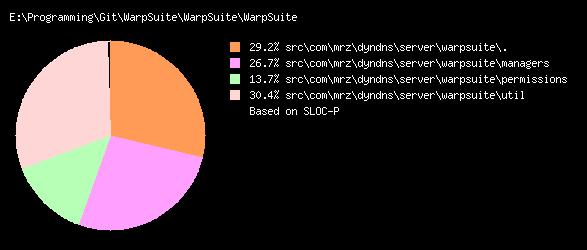
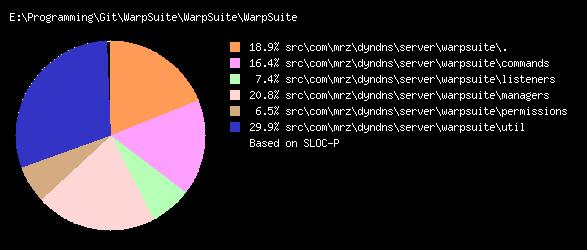
metrics

diff --git a/WarpSuite/LocMetrics.html b/WarpSuite/LocMetrics.html
@@ -1,1 +1,1 @@
-<html xmlns="http:////www.w3.org//1999//xhtml" xml:lang="en" lang="en"><head><title></title><LINK REL=StyleSheet HREF="LocMetrics.css" TYPE="text/css" MEDIA=screen></head><body><img src="LocMetricsPie.jpg"/><p></p><TABLE CLASS="MYTABLE"><CAPTION CLASS="MYTABLE">Overall</CAPTION><THEAD ><TR CLASS="MYTABLE"><TH CLASS="MYTABLE">Symbol</TH><TH CLASS="MYTABLE">Count</TH><TH CLASS="MYTABLE">Definition</TH></TR></THEAD><TBODY><TR CLASS="MYTABLE"><TD CLASS="MYTABLEL">Source Files</TD><TD CLASS="MYTABLEL">10</TD><TD CLASS="MYTABLEL">Source Files</TD><TR CLASS="MYTABLE"><TD CLASS="MYTABLEL">Directories</TD><TD CLASS="MYTABLEL">21</TD><TD CLASS="MYTABLEL">Directories</TD><TR CLASS="MYTABLE"><TD CLASS="MYTABLEL">LOC</TD><TD CLASS="MYTABLEL">526</TD><TD CLASS="MYTABLEL">Lines of Code</TD><TR CLASS="MYTABLE"><TD CLASS="MYTABLEL">BLOC</TD><TD CLASS="MYTABLEL">95</TD><TD CLASS="MYTABLEL">Blank Lines of Code</TD><TR CLASS="MYTABLE"><TD CLASS="MYTABLEL">SLOC-P</TD><TD CLASS="MYTABLEL">415</TD><TD CLASS="MYTABLEL">Physical Executable Lines of Code</TD><TR CLASS="MYTABLE"><TD CLASS="MYTABLEL">SLOC-L </TD><TD CLASS="MYTABLEL">262</TD><TD CLASS="MYTABLEL">Logical Executable Lines of Code</TD><TR CLASS="MYTABLE"><TD CLASS="MYTABLEL">MVG</TD><TD CLASS="MYTABLEL">36</TD><TD CLASS="MYTABLEL">McCabe VG Complexity</TD><TR CLASS="MYTABLE"><TD CLASS="MYTABLEL">C&SLOC</TD><TD CLASS="MYTABLEL">0</TD><TD CLASS="MYTABLEL">Code and Comment Lines of Code</TD><TR CLASS="MYTABLE"><TD CLASS="MYTABLEL">CLOC</TD><TD CLASS="MYTABLEL">16</TD><TD CLASS="MYTABLEL">Comment Only Lines of Code</TD><TR CLASS="MYTABLE"><TD CLASS="MYTABLEL">CWORD</TD><TD CLASS="MYTABLEL">60</TD><TD CLASS="MYTABLEL">Commentary Words</TD><TR CLASS="MYTABLE"><TD CLASS="MYTABLEL">HCLOC</TD><TD CLASS="MYTABLEL">0</TD><TD CLASS="MYTABLEL">Header Comment Lines of Code</TD><TR CLASS="MYTABLE"><TD CLASS="MYTABLEL">HCWORD</TD><TD CLASS="MYTABLEL">0</TD><TD CLASS="MYTABLEL">Header Commentary Words</TD></TBODY></TABLE><p></p><TABLE CLASS="MYTABLE"><CAPTION CLASS="MYTABLE">E:\Programming\Git\WarpSuite\WarpSuite\WarpSuite - FOLDERS</CAPTION><THEAD ><TR CLASS="MYTABLE"><TH CLASS="MYTABLE">Folder</TH><TH CLASS="MYTABLE">Files</TH><TH CLASS="MYTABLE">LOC</TH><TH CLASS="MYTABLE">SLOC Physical</TH><TH CLASS="MYTABLE">SLOC Logical</TH><TH CLASS="MYTABLE">MVG</TH><TH CLASS="MYTABLE">BLOC</TH><TH CLASS="MYTABLE">C&SLOC</TH><TH CLASS="MYTABLE">CLOC</TH><TH CLASS="MYTABLE">CWORD</TH><TH CLASS="MYTABLE">HCLOC</TH><TH CLASS="MYTABLE">HCWORD</TH></TR></THEAD><TBODY><TR CLASS="MYTABLE"><TD CLASS="MYTABLEL">Total</TD><TD CLASS="MYTABLEL">10</TD><TD CLASS="MYTABLE">526</TD><TD CLASS="MYTABLE">415</TD><TD CLASS="MYTABLE">262</TD><TD CLASS="MYTABLE">36</TD><TD CLASS="MYTABLE">95</TD><TD CLASS="MYTABLE">0</TD><TD CLASS="MYTABLE">16</TD><TD CLASS="MYTABLE">60</TD><TD CLASS="MYTABLE">0</TD><TD CLASS="MYTABLE">0</TD><TR CLASS="MYTABLE"><TD CLASS="MYTABLEL">E:\Programming\Git\WarpSuite\WarpSuite\WarpSuite</TD><TD CLASS="MYTABLEL">10</TD><TD CLASS="MYTABLE">526</TD><TD CLASS="MYTABLE">415</TD><TD CLASS="MYTABLE">262</TD><TD CLASS="MYTABLE">36</TD><TD CLASS="MYTABLE">95</TD><TD CLASS="MYTABLE">0</TD><TD CLASS="MYTABLE">16</TD><TD CLASS="MYTABLE">60</TD><TD CLASS="MYTABLE">0</TD><TD CLASS="MYTABLE">0</TD><TR CLASS="MYTABLE"><TD CLASS="MYTABLEL">E:\Programming\Git\WarpSuite\WarpSuite\WarpSuite\src</TD><TD CLASS="MYTABLEL">10</TD><TD CLASS="MYTABLE">526</TD><TD CLASS="MYTABLE">415</TD><TD CLASS="MYTABLE">262</TD><TD CLASS="MYTABLE">36</TD><TD CLASS="MYTABLE">95</TD><TD CLASS="MYTABLE">0</TD><TD CLASS="MYTABLE">16</TD><TD CLASS="MYTABLE">60</TD><TD CLASS="MYTABLE">0</TD><TD CLASS="MYTABLE">0</TD><TR CLASS="MYTABLE"><TD CLASS="MYTABLEL">E:\Programming\Git\WarpSuite\WarpSuite\WarpSuite\src\com</TD><TD CLASS="MYTABLEL">10</TD><TD CLASS="MYTABLE">526</TD><TD CLASS="MYTABLE">415</TD><TD CLASS="MYTABLE">262</TD><TD CLASS="MYTABLE">36</TD><TD CLASS="MYTABLE">95</TD><TD CLASS="MYTABLE">0</TD><TD CLASS="MYTABLE">16</TD><TD CLASS="MYTABLE">60</TD><TD CLASS="MYTABLE">0</TD><TD CLASS="MYTABLE">0</TD><TR CLASS="MYTABLE"><TD CLASS="MYTABLEL">E:\Programming\Git\WarpSuite\WarpSuite\WarpSuite\src\com\mrz</TD><TD CLASS="MYTABLEL">10</TD><TD CLASS="MYTABLE">526</TD><TD CLASS="MYTABLE">415</TD><TD CLASS="MYTABLE">262</TD><TD CLASS="MYTABLE">36</TD><TD CLASS="MYTABLE">95</TD><TD CLASS="MYTABLE">0</TD><TD CLASS="MYTABLE">16</TD><TD CLASS="MYTABLE">60</TD><TD CLASS="MYTABLE">0</TD><TD CLASS="MYTABLE">0</TD><TR CLASS="MYTABLE"><TD CLASS="MYTABLEL">E:\Programming\Git\WarpSuite\WarpSuite\WarpSuite\src\com\mrz\dyndns</TD><TD CLASS="MYTABLEL">10</TD><TD CLASS="MYTABLE">526</TD><TD CLASS="MYTABLE">415</TD><TD CLASS="MYTABLE">262</TD><TD CLASS="MYTABLE">36</TD><TD CLASS="MYTABLE">95</TD><TD CLASS="MYTABLE">0</TD><TD CLASS="MYTABLE">16</TD><TD CLASS="MYTABLE">60</TD><TD CLASS="MYTABLE">0</TD><TD CLASS="MYTABLE">0</TD><TR CLASS="MYTABLE"><TD CLASS="MYTABLEL">E:\Programming\Git\WarpSuite\WarpSuite\WarpSuite\src\com\mrz\dyndns\server</TD><TD CLASS="MYTABLEL">10</TD><TD CLASS="MYTABLE">526</TD><TD CLASS="MYTABLE">415</TD><TD CLASS="MYTABLE">262</TD><TD CLASS="MYTABLE">36</TD><TD CLASS="MYTABLE">95</TD><TD CLASS="MYTABLE">0</TD><TD CLASS="MYTABLE">16</TD><TD CLASS="MYTABLE">60</TD><TD CLASS="MYTABLE">0</TD><TD CLASS="MYTABLE">0</TD><TR CLASS="MYTABLE"><TD CLASS="MYTABLEL">E:\Programming\Git\WarpSuite\WarpSuite\WarpSuite\src\com\mrz\dyndns\server\warpsuite</TD><TD CLASS="MYTABLEL">10</TD><TD CLASS="MYTABLE">526</TD><TD CLASS="MYTABLE">415</TD><TD CLASS="MYTABLE">262</TD><TD CLASS="MYTABLE">36</TD><TD CLASS="MYTABLE">95</TD><TD CLASS="MYTABLE">0</TD><TD CLASS="MYTABLE">16</TD><TD CLASS="MYTABLE">60</TD><TD CLASS="MYTABLE">0</TD><TD CLASS="MYTABLE">0</TD><TR CLASS="MYTABLE"><TD CLASS="MYTABLEL">E:\Programming\Git\WarpSuite\WarpSuite\WarpSuite\src\com\mrz\dyndns\server\warpsuite\managers</TD><TD CLASS="MYTABLEL">2</TD><TD CLASS="MYTABLE">135</TD><TD CLASS="MYTABLE">111</TD><TD CLASS="MYTABLE">75</TD><TD CLASS="MYTABLE">6</TD><TD CLASS="MYTABLE">24</TD><TD CLASS="MYTABLE">0</TD><TD CLASS="MYTABLE">0</TD><TD CLASS="MYTABLE">0</TD><TD CLASS="MYTABLE">0</TD><TD CLASS="MYTABLE">0</TD><TR CLASS="MYTABLE"><TD CLASS="MYTABLEL">E:\Programming\Git\WarpSuite\WarpSuite\WarpSuite\src\com\mrz\dyndns\server\warpsuite\permissions</TD><TD CLASS="MYTABLEL">2</TD><TD CLASS="MYTABLE">78</TD><TD CLASS="MYTABLE">57</TD><TD CLASS="MYTABLE">24</TD><TD CLASS="MYTABLE">5</TD><TD CLASS="MYTABLE">17</TD><TD CLASS="MYTABLE">0</TD><TD CLASS="MYTABLE">4</TD><TD CLASS="MYTABLE">4</TD><TD CLASS="MYTABLE">0</TD><TD CLASS="MYTABLE">0</TD><TR CLASS="MYTABLE"><TD CLASS="MYTABLEL">E:\Programming\Git\WarpSuite\WarpSuite\WarpSuite\src\com\mrz\dyndns\server\warpsuite\util</TD><TD CLASS="MYTABLEL">4</TD><TD CLASS="MYTABLE">155</TD><TD CLASS="MYTABLE">126</TD><TD CLASS="MYTABLE">86</TD><TD CLASS="MYTABLE">8</TD><TD CLASS="MYTABLE">27</TD><TD CLASS="MYTABLE">0</TD><TD CLASS="MYTABLE">2</TD><TD CLASS="MYTABLE">11</TD><TD CLASS="MYTABLE">0</TD><TD CLASS="MYTABLE">0</TD></TBODY></TABLE><p></p><TABLE CLASS="MYTABLE"><CAPTION CLASS="MYTABLE">E:\Programming\Git\WarpSuite\WarpSuite\WarpSuite - FILES</CAPTION><THEAD ><TR CLASS="MYTABLE"><TH CLASS="MYTABLE">File</TH><TH CLASS="MYTABLE">LOC</TH><TH CLASS="MYTABLE">SLOC Physical</TH><TH CLASS="MYTABLE">SLOC Logical</TH><TH CLASS="MYTABLE">MVG</TH><TH CLASS="MYTABLE">BLOC</TH><TH CLASS="MYTABLE">C&SLOC</TH><TH CLASS="MYTABLE">CLOC</TH><TH CLASS="MYTABLE">CWORD</TH><TH CLASS="MYTABLE">HCLOC</TH><TH CLASS="MYTABLE">HCWORD</TH></TR></THEAD><TBODY><TR CLASS="MYTABLE"><TD CLASS="MYTABLEL">E:\Programming\Git\WarpSuite\WarpSuite\WarpSuite\src\com\mrz\dyndns\server\warpsuite\WarpSuite.java</TD><TD CLASS="MYTABLE">54</TD><TD CLASS="MYTABLE">41</TD><TD CLASS="MYTABLE">29</TD><TD CLASS="MYTABLE">2</TD><TD CLASS="MYTABLE">12</TD><TD CLASS="MYTABLE">0</TD><TD CLASS="MYTABLE">1</TD><TD CLASS="MYTABLE">5</TD><TD CLASS="MYTABLE">0</TD><TD CLASS="MYTABLE">0</TD><TR CLASS="MYTABLE"><TD CLASS="MYTABLEL">E:\Programming\Git\WarpSuite\WarpSuite\WarpSuite\src\com\mrz\dyndns\server\warpsuite\WarpSuitePlayer.java</TD><TD CLASS="MYTABLE">104</TD><TD CLASS="MYTABLE">80</TD><TD CLASS="MYTABLE">48</TD><TD CLASS="MYTABLE">15</TD><TD CLASS="MYTABLE">15</TD><TD CLASS="MYTABLE">0</TD><TD CLASS="MYTABLE">9</TD><TD CLASS="MYTABLE">40</TD><TD CLASS="MYTABLE">0</TD><TD CLASS="MYTABLE">0</TD><TR CLASS="MYTABLE"><TD CLASS="MYTABLEL">E:\Programming\Git\WarpSuite\WarpSuite\WarpSuite\src\com\mrz\dyndns\server\warpsuite\managers\PlayerManager.java</TD><TD CLASS="MYTABLE">82</TD><TD CLASS="MYTABLE">67</TD><TD CLASS="MYTABLE">43</TD><TD CLASS="MYTABLE">4</TD><TD CLASS="MYTABLE">15</TD><TD CLASS="MYTABLE">0</TD><TD CLASS="MYTABLE">0</TD><TD CLASS="MYTABLE">0</TD><TD CLASS="MYTABLE">0</TD><TD CLASS="MYTABLE">0</TD><TR CLASS="MYTABLE"><TD CLASS="MYTABLEL">E:\Programming\Git\WarpSuite\WarpSuite\WarpSuite\src\com\mrz\dyndns\server\warpsuite\managers\WarpManager.java</TD><TD CLASS="MYTABLE">53</TD><TD CLASS="MYTABLE">44</TD><TD CLASS="MYTABLE">32</TD><TD CLASS="MYTABLE">2</TD><TD CLASS="MYTABLE">9</TD><TD CLASS="MYTABLE">0</TD><TD CLASS="MYTABLE">0</TD><TD CLASS="MYTABLE">0</TD><TD CLASS="MYTABLE">0</TD><TD CLASS="MYTABLE">0</TD><TR CLASS="MYTABLE"><TD CLASS="MYTABLEL">E:\Programming\Git\WarpSuite\WarpSuite\WarpSuite\src\com\mrz\dyndns\server\warpsuite\permissions\NumeralPermissions.java</TD><TD CLASS="MYTABLE">32</TD><TD CLASS="MYTABLE">25</TD><TD CLASS="MYTABLE">15</TD><TD CLASS="MYTABLE">4</TD><TD CLASS="MYTABLE">7</TD><TD CLASS="MYTABLE">0</TD><TD CLASS="MYTABLE">0</TD><TD CLASS="MYTABLE">0</TD><TD CLASS="MYTABLE">0</TD><TD CLASS="MYTABLE">0</TD><TR CLASS="MYTABLE"><TD CLASS="MYTABLEL">E:\Programming\Git\WarpSuite\WarpSuite\WarpSuite\src\com\mrz\dyndns\server\warpsuite\permissions\Permissions.java</TD><TD CLASS="MYTABLE">46</TD><TD CLASS="MYTABLE">32</TD><TD CLASS="MYTABLE">9</TD><TD CLASS="MYTABLE">1</TD><TD CLASS="MYTABLE">10</TD><TD CLASS="MYTABLE">0</TD><TD CLASS="MYTABLE">4</TD><TD CLASS="MYTABLE">4</TD><TD CLASS="MYTABLE">0</TD><TD CLASS="MYTABLE">0</TD><TR CLASS="MYTABLE"><TD CLASS="MYTABLEL">E:\Programming\Git\WarpSuite\WarpSuite\WarpSuite\src\com\mrz\dyndns\server\warpsuite\util\Config.java</TD><TD CLASS="MYTABLE">30</TD><TD CLASS="MYTABLE">25</TD><TD CLASS="MYTABLE">19</TD><TD CLASS="MYTABLE">0</TD><TD CLASS="MYTABLE">5</TD><TD CLASS="MYTABLE">0</TD><TD CLASS="MYTABLE">0</TD><TD CLASS="MYTABLE">0</TD><TD CLASS="MYTABLE">0</TD><TD CLASS="MYTABLE">0</TD><TR CLASS="MYTABLE"><TD CLASS="MYTABLEL">E:\Programming\Git\WarpSuite\WarpSuite\WarpSuite\src\com\mrz\dyndns\server\warpsuite\util\MyConfig.java</TD><TD CLASS="MYTABLE">59</TD><TD CLASS="MYTABLE">47</TD><TD CLASS="MYTABLE">35</TD><TD CLASS="MYTABLE">5</TD><TD CLASS="MYTABLE">10</TD><TD CLASS="MYTABLE">0</TD><TD CLASS="MYTABLE">2</TD><TD CLASS="MYTABLE">11</TD><TD CLASS="MYTABLE">0</TD><TD CLASS="MYTABLE">0</TD><TR CLASS="MYTABLE"><TD CLASS="MYTABLEL">E:\Programming\Git\WarpSuite\WarpSuite\WarpSuite\src\com\mrz\dyndns\server\warpsuite\util\SimpleLocation.java</TD><TD CLASS="MYTABLE">20</TD><TD CLASS="MYTABLE">17</TD><TD CLASS="MYTABLE">13</TD><TD CLASS="MYTABLE">0</TD><TD CLASS="MYTABLE">3</TD><TD CLASS="MYTABLE">0</TD><TD CLASS="MYTABLE">0</TD><TD CLASS="MYTABLE">0</TD><TD CLASS="MYTABLE">0</TD><TD CLASS="MYTABLE">0</TD><TR CLASS="MYTABLE"><TD CLASS="MYTABLEL">E:\Programming\Git\WarpSuite\WarpSuite\WarpSuite\src\com\mrz\dyndns\server\warpsuite\util\Util.java</TD><TD CLASS="MYTABLE">46</TD><TD CLASS="MYTABLE">37</TD><TD CLASS="MYTABLE">19</TD><TD CLASS="MYTABLE">3</TD><TD CLASS="MYTABLE">9</TD><TD CLASS="MYTABLE">0</TD><TD CLASS="MYTABLE">0</TD><TD CLASS="MYTABLE">0</TD><TD CLASS="MYTABLE">0</TD><TD CLASS="MYTABLE">0</TD></TBODY></TABLE><p></p></BODY></HTML>
+<html xmlns="http:////www.w3.org//1999//xhtml" xml:lang="en" lang="en"><head><title></title><LINK REL=StyleSheet HREF="LocMetrics.css" TYPE="text/css" MEDIA=screen></head><body><img src="LocMetricsPie.jpg"/><p></p><TABLE CLASS="MYTABLE"><CAPTION CLASS="MYTABLE">Overall</CAPTION><THEAD ><TR CLASS="MYTABLE"><TH CLASS="MYTABLE">Symbol</TH><TH CLASS="MYTABLE">Count</TH><TH CLASS="MYTABLE">Definition</TH></TR></THEAD><TBODY><TR CLASS="MYTABLE"><TD CLASS="MYTABLEL">Source Files</TD><TD CLASS="MYTABLEL">18</TD><TD CLASS="MYTABLEL">Source Files</TD><TR CLASS="MYTABLE"><TD CLASS="MYTABLEL">Directories</TD><TD CLASS="MYTABLEL">23</TD><TD CLASS="MYTABLEL">Directories</TD><TR CLASS="MYTABLE"><TD CLASS="MYTABLEL">LOC</TD><TD CLASS="MYTABLEL">1290</TD><TD CLASS="MYTABLEL">Lines of Code</TD><TR CLASS="MYTABLE"><TD CLASS="MYTABLEL">BLOC</TD><TD CLASS="MYTABLEL">214</TD><TD CLASS="MYTABLEL">Blank Lines of Code</TD><TR CLASS="MYTABLE"><TD CLASS="MYTABLEL">SLOC-P</TD><TD CLASS="MYTABLEL">1047</TD><TD CLASS="MYTABLEL">Physical Executable Lines of Code</TD><TR CLASS="MYTABLE"><TD CLASS="MYTABLEL">SLOC-L </TD><TD CLASS="MYTABLEL">640</TD><TD CLASS="MYTABLEL">Logical Executable Lines of Code</TD><TR CLASS="MYTABLE"><TD CLASS="MYTABLEL">MVG</TD><TD CLASS="MYTABLEL">128</TD><TD CLASS="MYTABLEL">McCabe VG Complexity</TD><TR CLASS="MYTABLE"><TD CLASS="MYTABLEL">C&SLOC</TD><TD CLASS="MYTABLEL">1</TD><TD CLASS="MYTABLEL">Code and Comment Lines of Code</TD><TR CLASS="MYTABLE"><TD CLASS="MYTABLEL">CLOC</TD><TD CLASS="MYTABLEL">29</TD><TD CLASS="MYTABLEL">Comment Only Lines of Code</TD><TR CLASS="MYTABLE"><TD CLASS="MYTABLEL">CWORD</TD><TD CLASS="MYTABLEL">135</TD><TD CLASS="MYTABLEL">Commentary Words</TD><TR CLASS="MYTABLE"><TD CLASS="MYTABLEL">HCLOC</TD><TD CLASS="MYTABLEL">0</TD><TD CLASS="MYTABLEL">Header Comment Lines of Code</TD><TR CLASS="MYTABLE"><TD CLASS="MYTABLEL">HCWORD</TD><TD CLASS="MYTABLEL">0</TD><TD CLASS="MYTABLEL">Header Commentary Words</TD></TBODY></TABLE><p></p><TABLE CLASS="MYTABLE"><CAPTION CLASS="MYTABLE">E:\Programming\Git\WarpSuite\WarpSuite\WarpSuite - FOLDERS</CAPTION><THEAD ><TR CLASS="MYTABLE"><TH CLASS="MYTABLE">Folder</TH><TH CLASS="MYTABLE">Files</TH><TH CLASS="MYTABLE">LOC</TH><TH CLASS="MYTABLE">SLOC Physical</TH><TH CLASS="MYTABLE">SLOC Logical</TH><TH CLASS="MYTABLE">MVG</TH><TH CLASS="MYTABLE">BLOC</TH><TH CLASS="MYTABLE">C&SLOC</TH><TH CLASS="MYTABLE">CLOC</TH><TH CLASS="MYTABLE">CWORD</TH><TH CLASS="MYTABLE">HCLOC</TH><TH CLASS="MYTABLE">HCWORD</TH></TR></THEAD><TBODY><TR CLASS="MYTABLE"><TD CLASS="MYTABLEL">Total</TD><TD CLASS="MYTABLEL">18</TD><TD CLASS="MYTABLE">1290</TD><TD CLASS="MYTABLE">1047</TD><TD CLASS="MYTABLE">640</TD><TD CLASS="MYTABLE">128</TD><TD CLASS="MYTABLE">214</TD><TD CLASS="MYTABLE">1</TD><TD CLASS="MYTABLE">29</TD><TD CLASS="MYTABLE">135</TD><TD CLASS="MYTABLE">0</TD><TD CLASS="MYTABLE">0</TD><TR CLASS="MYTABLE"><TD CLASS="MYTABLEL">E:\Programming\Git\WarpSuite\WarpSuite\WarpSuite</TD><TD CLASS="MYTABLEL">18</TD><TD CLASS="MYTABLE">1290</TD><TD CLASS="MYTABLE">1047</TD><TD CLASS="MYTABLE">640</TD><TD CLASS="MYTABLE">128</TD><TD CLASS="MYTABLE">214</TD><TD CLASS="MYTABLE">1</TD><TD CLASS="MYTABLE">29</TD><TD CLASS="MYTABLE">135</TD><TD CLASS="MYTABLE">0</TD><TD CLASS="MYTABLE">0</TD><TR CLASS="MYTABLE"><TD CLASS="MYTABLEL">E:\Programming\Git\WarpSuite\WarpSuite\WarpSuite\src</TD><TD CLASS="MYTABLEL">18</TD><TD CLASS="MYTABLE">1290</TD><TD CLASS="MYTABLE">1047</TD><TD CLASS="MYTABLE">640</TD><TD CLASS="MYTABLE">128</TD><TD CLASS="MYTABLE">214</TD><TD CLASS="MYTABLE">1</TD><TD CLASS="MYTABLE">29</TD><TD CLASS="MYTABLE">135</TD><TD CLASS="MYTABLE">0</TD><TD CLASS="MYTABLE">0</TD><TR CLASS="MYTABLE"><TD CLASS="MYTABLEL">E:\Programming\Git\WarpSuite\WarpSuite\WarpSuite\src\com</TD><TD CLASS="MYTABLEL">18</TD><TD CLASS="MYTABLE">1290</TD><TD CLASS="MYTABLE">1047</TD><TD CLASS="MYTABLE">640</TD><TD CLASS="MYTABLE">128</TD><TD CLASS="MYTABLE">214</TD><TD CLASS="MYTABLE">1</TD><TD CLASS="MYTABLE">29</TD><TD CLASS="MYTABLE">135</TD><TD CLASS="MYTABLE">0</TD><TD CLASS="MYTABLE">0</TD><TR CLASS="MYTABLE"><TD CLASS="MYTABLEL">E:\Programming\Git\WarpSuite\WarpSuite\WarpSuite\src\com\mrz</TD><TD CLASS="MYTABLEL">18</TD><TD CLASS="MYTABLE">1290</TD><TD CLASS="MYTABLE">1047</TD><TD CLASS="MYTABLE">640</TD><TD CLASS="MYTABLE">128</TD><TD CLASS="MYTABLE">214</TD><TD CLASS="MYTABLE">1</TD><TD CLASS="MYTABLE">29</TD><TD CLASS="MYTABLE">135</TD><TD CLASS="MYTABLE">0</TD><TD CLASS="MYTABLE">0</TD><TR CLASS="MYTABLE"><TD CLASS="MYTABLEL">E:\Programming\Git\WarpSuite\WarpSuite\WarpSuite\src\com\mrz\dyndns</TD><TD CLASS="MYTABLEL">18</TD><TD CLASS="MYTABLE">1290</TD><TD CLASS="MYTABLE">1047</TD><TD CLASS="MYTABLE">640</TD><TD CLASS="MYTABLE">128</TD><TD CLASS="MYTABLE">214</TD><TD CLASS="MYTABLE">1</TD><TD CLASS="MYTABLE">29</TD><TD CLASS="MYTABLE">135</TD><TD CLASS="MYTABLE">0</TD><TD CLASS="MYTABLE">0</TD><TR CLASS="MYTABLE"><TD CLASS="MYTABLEL">E:\Programming\Git\WarpSuite\WarpSuite\WarpSuite\src\com\mrz\dyndns\server</TD><TD CLASS="MYTABLEL">18</TD><TD CLASS="MYTABLE">1290</TD><TD CLASS="MYTABLE">1047</TD><TD CLASS="MYTABLE">640</TD><TD CLASS="MYTABLE">128</TD><TD CLASS="MYTABLE">214</TD><TD CLASS="MYTABLE">1</TD><TD CLASS="MYTABLE">29</TD><TD CLASS="MYTABLE">135</TD><TD CLASS="MYTABLE">0</TD><TD CLASS="MYTABLE">0</TD><TR CLASS="MYTABLE"><TD CLASS="MYTABLEL">E:\Programming\Git\WarpSuite\WarpSuite\WarpSuite\src\com\mrz\dyndns\server\warpsuite</TD><TD CLASS="MYTABLEL">18</TD><TD CLASS="MYTABLE">1290</TD><TD CLASS="MYTABLE">1047</TD><TD CLASS="MYTABLE">640</TD><TD CLASS="MYTABLE">128</TD><TD CLASS="MYTABLE">214</TD><TD CLASS="MYTABLE">1</TD><TD CLASS="MYTABLE">29</TD><TD CLASS="MYTABLE">135</TD><TD CLASS="MYTABLE">0</TD><TD CLASS="MYTABLE">0</TD><TR CLASS="MYTABLE"><TD CLASS="MYTABLEL">E:\Programming\Git\WarpSuite\WarpSuite\WarpSuite\src\com\mrz\dyndns\server\warpsuite\commands</TD><TD CLASS="MYTABLEL">3</TD><TD CLASS="MYTABLE">209</TD><TD CLASS="MYTABLE">172</TD><TD CLASS="MYTABLE">106</TD><TD CLASS="MYTABLE">28</TD><TD CLASS="MYTABLE">34</TD><TD CLASS="MYTABLE">0</TD><TD CLASS="MYTABLE">3</TD><TD CLASS="MYTABLE">17</TD><TD CLASS="MYTABLE">0</TD><TD CLASS="MYTABLE">0</TD><TR CLASS="MYTABLE"><TD CLASS="MYTABLEL">E:\Programming\Git\WarpSuite\WarpSuite\WarpSuite\src\com\mrz\dyndns\server\warpsuite\listeners</TD><TD CLASS="MYTABLEL">2</TD><TD CLASS="MYTABLE">93</TD><TD CLASS="MYTABLE">78</TD><TD CLASS="MYTABLE">47</TD><TD CLASS="MYTABLE">7</TD><TD CLASS="MYTABLE">13</TD><TD CLASS="MYTABLE">0</TD><TD CLASS="MYTABLE">2</TD><TD CLASS="MYTABLE">2</TD><TD CLASS="MYTABLE">0</TD><TD CLASS="MYTABLE">0</TD><TR CLASS="MYTABLE"><TD CLASS="MYTABLEL">E:\Programming\Git\WarpSuite\WarpSuite\WarpSuite\src\com\mrz\dyndns\server\warpsuite\managers</TD><TD CLASS="MYTABLEL">3</TD><TD CLASS="MYTABLE">264</TD><TD CLASS="MYTABLE">218</TD><TD CLASS="MYTABLE">137</TD><TD CLASS="MYTABLE">26</TD><TD CLASS="MYTABLE">45</TD><TD CLASS="MYTABLE">0</TD><TD CLASS="MYTABLE">1</TD><TD CLASS="MYTABLE">8</TD><TD CLASS="MYTABLE">0</TD><TD CLASS="MYTABLE">0</TD><TR CLASS="MYTABLE"><TD CLASS="MYTABLEL">E:\Programming\Git\WarpSuite\WarpSuite\WarpSuite\src\com\mrz\dyndns\server\warpsuite\permissions</TD><TD CLASS="MYTABLEL">2</TD><TD CLASS="MYTABLE">93</TD><TD CLASS="MYTABLE">68</TD><TD CLASS="MYTABLE">30</TD><TD CLASS="MYTABLE">8</TD><TD CLASS="MYTABLE">21</TD><TD CLASS="MYTABLE">0</TD><TD CLASS="MYTABLE">4</TD><TD CLASS="MYTABLE">4</TD><TD CLASS="MYTABLE">0</TD><TD CLASS="MYTABLE">0</TD><TR CLASS="MYTABLE"><TD CLASS="MYTABLEL">E:\Programming\Git\WarpSuite\WarpSuite\WarpSuite\src\com\mrz\dyndns\server\warpsuite\util</TD><TD CLASS="MYTABLEL">6</TD><TD CLASS="MYTABLE">381</TD><TD CLASS="MYTABLE">313</TD><TD CLASS="MYTABLE">193</TD><TD CLASS="MYTABLE">35</TD><TD CLASS="MYTABLE">64</TD><TD CLASS="MYTABLE">0</TD><TD CLASS="MYTABLE">4</TD><TD CLASS="MYTABLE">19</TD><TD CLASS="MYTABLE">0</TD><TD CLASS="MYTABLE">0</TD></TBODY></TABLE><p></p><TABLE CLASS="MYTABLE"><CAPTION CLASS="MYTABLE">E:\Programming\Git\WarpSuite\WarpSuite\WarpSuite - FILES</CAPTION><THEAD ><TR CLASS="MYTABLE"><TH CLASS="MYTABLE">File</TH><TH CLASS="MYTABLE">LOC</TH><TH CLASS="MYTABLE">SLOC Physical</TH><TH CLASS="MYTABLE">SLOC Logical</TH><TH CLASS="MYTABLE">MVG</TH><TH CLASS="MYTABLE">BLOC</TH><TH CLASS="MYTABLE">C&SLOC</TH><TH CLASS="MYTABLE">CLOC</TH><TH CLASS="MYTABLE">CWORD</TH><TH CLASS="MYTABLE">HCLOC</TH><TH CLASS="MYTABLE">HCWORD</TH></TR></THEAD><TBODY><TR CLASS="MYTABLE"><TD CLASS="MYTABLEL">E:\Programming\Git\WarpSuite\WarpSuite\WarpSuite\src\com\mrz\dyndns\server\warpsuite\WarpSuite.java</TD><TD CLASS="MYTABLE">125</TD><TD CLASS="MYTABLE">104</TD><TD CLASS="MYTABLE">72</TD><TD CLASS="MYTABLE">9</TD><TD CLASS="MYTABLE">20</TD><TD CLASS="MYTABLE">1</TD><TD CLASS="MYTABLE">1</TD><TD CLASS="MYTABLE">7</TD><TD CLASS="MYTABLE">0</TD><TD CLASS="MYTABLE">0</TD><TR CLASS="MYTABLE"><TD CLASS="MYTABLEL">E:\Programming\Git\WarpSuite\WarpSuite\WarpSuite\src\com\mrz\dyndns\server\warpsuite\WarpSuitePlayer.java</TD><TD CLASS="MYTABLE">125</TD><TD CLASS="MYTABLE">94</TD><TD CLASS="MYTABLE">55</TD><TD CLASS="MYTABLE">15</TD><TD CLASS="MYTABLE">17</TD><TD CLASS="MYTABLE">0</TD><TD CLASS="MYTABLE">14</TD><TD CLASS="MYTABLE">78</TD><TD CLASS="MYTABLE">0</TD><TD CLASS="MYTABLE">0</TD><TR CLASS="MYTABLE"><TD CLASS="MYTABLEL">E:\Programming\Git\WarpSuite\WarpSuite\WarpSuite\src\com\mrz\dyndns\server\warpsuite\commands\GoPlayersOwnWarp.java</TD><TD CLASS="MYTABLE">92</TD><TD CLASS="MYTABLE">79</TD><TD CLASS="MYTABLE">46</TD><TD CLASS="MYTABLE">14</TD><TD CLASS="MYTABLE">11</TD><TD CLASS="MYTABLE">0</TD><TD CLASS="MYTABLE">2</TD><TD CLASS="MYTABLE">14</TD><TD CLASS="MYTABLE">0</TD><TD CLASS="MYTABLE">0</TD><TR CLASS="MYTABLE"><TD CLASS="MYTABLEL">E:\Programming\Git\WarpSuite\WarpSuite\WarpSuite\src\com\mrz\dyndns\server\warpsuite\commands\SetPlayersOwnWarp.java</TD><TD CLASS="MYTABLE">63</TD><TD CLASS="MYTABLE">50</TD><TD CLASS="MYTABLE">32</TD><TD CLASS="MYTABLE">10</TD><TD CLASS="MYTABLE">12</TD><TD CLASS="MYTABLE">0</TD><TD CLASS="MYTABLE">1</TD><TD CLASS="MYTABLE">3</TD><TD CLASS="MYTABLE">0</TD><TD CLASS="MYTABLE">0</TD><TR CLASS="MYTABLE"><TD CLASS="MYTABLEL">E:\Programming\Git\WarpSuite\WarpSuite\WarpSuite\src\com\mrz\dyndns\server\warpsuite\commands\WarpSuiteCommand.java</TD><TD CLASS="MYTABLE">54</TD><TD CLASS="MYTABLE">43</TD><TD CLASS="MYTABLE">28</TD><TD CLASS="MYTABLE">4</TD><TD CLASS="MYTABLE">11</TD><TD CLASS="MYTABLE">0</TD><TD CLASS="MYTABLE">0</TD><TD CLASS="MYTABLE">0</TD><TD CLASS="MYTABLE">0</TD><TD CLASS="MYTABLE">0</TD><TR CLASS="MYTABLE"><TD CLASS="MYTABLEL">E:\Programming\Git\WarpSuite\WarpSuite\WarpSuite\src\com\mrz\dyndns\server\warpsuite\listeners\EntityDamageByEntityListener.java</TD><TD CLASS="MYTABLE">62</TD><TD CLASS="MYTABLE">53</TD><TD CLASS="MYTABLE">31</TD><TD CLASS="MYTABLE">6</TD><TD CLASS="MYTABLE">7</TD><TD CLASS="MYTABLE">0</TD><TD CLASS="MYTABLE">2</TD><TD CLASS="MYTABLE">2</TD><TD CLASS="MYTABLE">0</TD><TD CLASS="MYTABLE">0</TD><TR CLASS="MYTABLE"><TD CLASS="MYTABLEL">E:\Programming\Git\WarpSuite\WarpSuite\WarpSuite\src\com\mrz\dyndns\server\warpsuite\listeners\PlayerMoveListener.java</TD><TD CLASS="MYTABLE">31</TD><TD CLASS="MYTABLE">25</TD><TD CLASS="MYTABLE">16</TD><TD CLASS="MYTABLE">1</TD><TD CLASS="MYTABLE">6</TD><TD CLASS="MYTABLE">0</TD><TD CLASS="MYTABLE">0</TD><TD CLASS="MYTABLE">0</TD><TD CLASS="MYTABLE">0</TD><TD CLASS="MYTABLE">0</TD><TR CLASS="MYTABLE"><TD CLASS="MYTABLEL">E:\Programming\Git\WarpSuite\WarpSuite\WarpSuite\src\com\mrz\dyndns\server\warpsuite\managers\PendingWarpManager.java</TD><TD CLASS="MYTABLE">38</TD><TD CLASS="MYTABLE">29</TD><TD CLASS="MYTABLE">17</TD><TD CLASS="MYTABLE">3</TD><TD CLASS="MYTABLE">9</TD><TD CLASS="MYTABLE">0</TD><TD CLASS="MYTABLE">0</TD><TD CLASS="MYTABLE">0</TD><TD CLASS="MYTABLE">0</TD><TD CLASS="MYTABLE">0</TD><TR CLASS="MYTABLE"><TD CLASS="MYTABLEL">E:\Programming\Git\WarpSuite\WarpSuite\WarpSuite\src\com\mrz\dyndns\server\warpsuite\managers\PlayerManager.java</TD><TD CLASS="MYTABLE">126</TD><TD CLASS="MYTABLE">108</TD><TD CLASS="MYTABLE">65</TD><TD CLASS="MYTABLE">12</TD><TD CLASS="MYTABLE">17</TD><TD CLASS="MYTABLE">0</TD><TD CLASS="MYTABLE">1</TD><TD CLASS="MYTABLE">8</TD><TD CLASS="MYTABLE">0</TD><TD CLASS="MYTABLE">0</TD><TR CLASS="MYTABLE"><TD CLASS="MYTABLEL">E:\Programming\Git\WarpSuite\WarpSuite\WarpSuite\src\com\mrz\dyndns\server\warpsuite\managers\WarpManager.java</TD><TD CLASS="MYTABLE">100</TD><TD CLASS="MYTABLE">81</TD><TD CLASS="MYTABLE">55</TD><TD CLASS="MYTABLE">11</TD><TD CLASS="MYTABLE">19</TD><TD CLASS="MYTABLE">0</TD><TD CLASS="MYTABLE">0</TD><TD CLASS="MYTABLE">0</TD><TD CLASS="MYTABLE">0</TD><TD CLASS="MYTABLE">0</TD><TR CLASS="MYTABLE"><TD CLASS="MYTABLEL">E:\Programming\Git\WarpSuite\WarpSuite\WarpSuite\src\com\mrz\dyndns\server\warpsuite\permissions\NumeralPermissions.java</TD><TD CLASS="MYTABLE">39</TD><TD CLASS="MYTABLE">30</TD><TD CLASS="MYTABLE">18</TD><TD CLASS="MYTABLE">6</TD><TD CLASS="MYTABLE">9</TD><TD CLASS="MYTABLE">0</TD><TD CLASS="MYTABLE">0</TD><TD CLASS="MYTABLE">0</TD><TD CLASS="MYTABLE">0</TD><TD CLASS="MYTABLE">0</TD><TR CLASS="MYTABLE"><TD CLASS="MYTABLEL">E:\Programming\Git\WarpSuite\WarpSuite\WarpSuite\src\com\mrz\dyndns\server\warpsuite\permissions\Permissions.java</TD><TD CLASS="MYTABLE">54</TD><TD CLASS="MYTABLE">38</TD><TD CLASS="MYTABLE">12</TD><TD CLASS="MYTABLE">2</TD><TD CLASS="MYTABLE">12</TD><TD CLASS="MYTABLE">0</TD><TD CLASS="MYTABLE">4</TD><TD CLASS="MYTABLE">4</TD><TD CLASS="MYTABLE">0</TD><TD CLASS="MYTABLE">0</TD><TR CLASS="MYTABLE"><TD CLASS="MYTABLEL">E:\Programming\Git\WarpSuite\WarpSuite\WarpSuite\src\com\mrz\dyndns\server\warpsuite\util\Coloring.java</TD><TD CLASS="MYTABLE">27</TD><TD CLASS="MYTABLE">21</TD><TD CLASS="MYTABLE">9</TD><TD CLASS="MYTABLE">1</TD><TD CLASS="MYTABLE">6</TD><TD CLASS="MYTABLE">0</TD><TD CLASS="MYTABLE">0</TD><TD CLASS="MYTABLE">0</TD><TD CLASS="MYTABLE">0</TD><TD CLASS="MYTABLE">0</TD><TR CLASS="MYTABLE"><TD CLASS="MYTABLEL">E:\Programming\Git\WarpSuite\WarpSuite\WarpSuite\src\com\mrz\dyndns\server\warpsuite\util\Config.java</TD><TD CLASS="MYTABLE">36</TD><TD CLASS="MYTABLE">31</TD><TD CLASS="MYTABLE">25</TD><TD CLASS="MYTABLE">0</TD><TD CLASS="MYTABLE">5</TD><TD CLASS="MYTABLE">0</TD><TD CLASS="MYTABLE">0</TD><TD CLASS="MYTABLE">0</TD><TD CLASS="MYTABLE">0</TD><TD CLASS="MYTABLE">0</TD><TR CLASS="MYTABLE"><TD CLASS="MYTABLEL">E:\Programming\Git\WarpSuite\WarpSuite\WarpSuite\src\com\mrz\dyndns\server\warpsuite\util\MyConfig.java</TD><TD CLASS="MYTABLE">59</TD><TD CLASS="MYTABLE">47</TD><TD CLASS="MYTABLE">35</TD><TD CLASS="MYTABLE">5</TD><TD CLASS="MYTABLE">10</TD><TD CLASS="MYTABLE">0</TD><TD CLASS="MYTABLE">2</TD><TD CLASS="MYTABLE">11</TD><TD CLASS="MYTABLE">0</TD><TD CLASS="MYTABLE">0</TD><TR CLASS="MYTABLE"><TD CLASS="MYTABLEL">E:\Programming\Git\WarpSuite\WarpSuite\WarpSuite\src\com\mrz\dyndns\server\warpsuite\util\SimpleLocation.java</TD><TD CLASS="MYTABLE">85</TD><TD CLASS="MYTABLE">70</TD><TD CLASS="MYTABLE">44</TD><TD CLASS="MYTABLE">11</TD><TD CLASS="MYTABLE">15</TD><TD CLASS="MYTABLE">0</TD><TD CLASS="MYTABLE">0</TD><TD CLASS="MYTABLE">0</TD><TD CLASS="MYTABLE">0</TD><TD CLASS="MYTABLE">0</TD><TR CLASS="MYTABLE"><TD CLASS="MYTABLEL">E:\Programming\Git\WarpSuite\WarpSuite\WarpSuite\src\com\mrz\dyndns\server\warpsuite\util\Util.java</TD><TD CLASS="MYTABLE">138</TD><TD CLASS="MYTABLE">117</TD><TD CLASS="MYTABLE">65</TD><TD CLASS="MYTABLE">16</TD><TD CLASS="MYTABLE">20</TD><TD CLASS="MYTABLE">0</TD><TD CLASS="MYTABLE">1</TD><TD CLASS="MYTABLE">6</TD><TD CLASS="MYTABLE">0</TD><TD CLASS="MYTABLE">0</TD><TR CLASS="MYTABLE"><TD CLASS="MYTABLEL">E:\Programming\Git\WarpSuite\WarpSuite\WarpSuite\src\com\mrz\dyndns\server\warpsuite\util\WorldLoader.java</TD><TD CLASS="MYTABLE">36</TD><TD CLASS="MYTABLE">27</TD><TD CLASS="MYTABLE">15</TD><TD CLASS="MYTABLE">2</TD><TD CLASS="MYTABLE">8</TD><TD CLASS="MYTABLE">0</TD><TD CLASS="MYTABLE">1</TD><TD CLASS="MYTABLE">2</TD><TD CLASS="MYTABLE">0</TD><TD CLASS="MYTABLE">0</TD></TBODY></TABLE><p></p></BODY></HTML>
